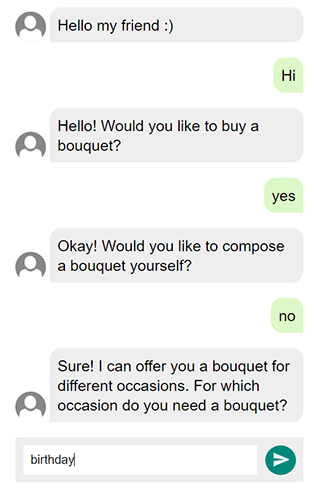
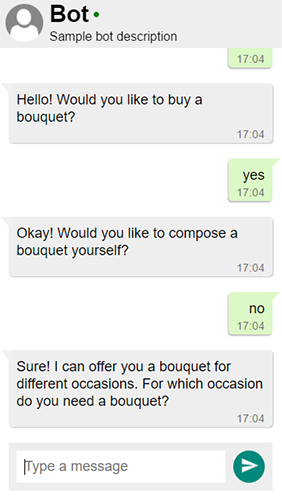
whatsapp styling

diff --git a/client/chat.scss b/client/chat.scss
@@ -5,9 +5,10 @@
   margin: 0 auto;
   max-width: 400px;
   padding: 12px;
+  margin-top: 3em;
 
   .messages {
-    @include flex(1, 1, 0);
+    @include flex(0, 1, 1);
   }
 
   .option_button {
@@ -39,14 +40,21 @@
     margin-bottom: 20px;
 
     .text {
-      @include flex(1, 1, 1);
+      @include flex(0, 1, 1);
       position: relative;
       background-color: rgb(238, 238, 238);
+
+      border-radius: 5px;
       .message_image {
         display: block;
         border-radius: 15px 15px 0 0;
         max-width: 610px;
         width: 100%;
+      }
+      .time {
+        float: right;
+        font-size: 0.8em;
+        color: $darkgrey;
       }
       &:before {
         content: '';
@@ -61,6 +69,7 @@
         @extend %align-self-flex-start;
         width: 45px;
         height: 40px;
+        margin-right: 5px;
         .img_bot {
           display: block;
           width: 40px;
@@ -83,6 +92,7 @@
       .text {
         @extend %align-self-flex-start;
         background-color: rgb(238, 238, 238);
+        box-shadow: 1px 1px 1px 0px rgba(50, 50, 50, 0.3);
         text-align: left;
 
         &:before {
@@ -90,7 +100,7 @@
           border-color: transparent #f5f1ee transparent transparent;
           position: absolute;
           top: 0;
-          left: -12px;
+          left: -10px;
         }
       }
     }
@@ -102,12 +112,13 @@
         @extend %justify-content-flex-end;
         float: right;
         background-color: #dcf8c6;
+        box-shadow: -1px 2px 1px 0px  rgba(50, 50, 50, 0.3);
         &:before {
           border-width: 15px 15px 0 0;
           border-color: #dcf8c6 transparent transparent transparent;
           position: absolute;
           top: 0;
-          right: -12px;
+          right: -10px;
         }
       }
     }
@@ -147,7 +158,7 @@
       padding: 10px;
       outline: none;
       border: none;
-      font-size: 16px;
+      font-size: 18px;
       background-color: white;
       &:focus, &:hover {
         outline: none;

diff --git a/imports/ui/body.html b/imports/ui/body.html
@@ -1,19 +1,26 @@
 <body>
-    <div class="spinner">
-      <div class="mul5">
-          <div class="mul5circle2"></div>
-          <div class="mul5circle3"></div>
-          <div class="mul5circle4"></div>
-          <div class="mul5circle5"></div>
-      </div>
+<div class="spinner">
+    <div class="mul5">
+        <div class="mul5circle2"></div>
+        <div class="mul5circle3"></div>
+        <div class="mul5circle4"></div>
+        <div class="mul5circle5"></div>
     </div>
-    <main>
-      <!-- Dynamic template is loaded here -->
-    </main>
-    <footer>
-    </footer>
+</div>
+<header>
+    <img src="/images/sample_avatar.png" alt="avatar">
+    <div>
+        <h1 class="person">Bot</h1>
+        <h2>Sample bot description</h2>
+    </div>
+</header>
+<main>
+    <!-- Dynamic template is loaded here -->
+</main>
+<footer>
+</footer>
 </body>
 
 <template name="mainlayout">
-  {{> Template.dynamic template=main}}
+    {{> Template.dynamic template=main}}
 </template>

diff --git a/client/header.scss b/client/header.scss
@@ -1,10 +1,12 @@
 @import 'variables.scss';
+@import 'sass-flexbox.scss';
 
 header {
-  background: #66d3f0;
+  background: #eeeeee;
   border: 2px;
   position: fixed;
   display: flex;
+  top: 0;
   z-index: 101;
   width: 100%;
   height: 4rem;
@@ -15,13 +17,6 @@ header {
     margin: 0 0.5rem;
     border-radius: 50%;
     align-self: center;
-
-    &.phone {
-      border-radius: 0;
-      position: absolute;
-      right: 1rem;
-      margin-top: 0.5rem;
-    }
   }
 
   h1 {

diff --git a/client/sass-flexbox.scss b/client/sass-flexbox.scss
@@ -136,6 +136,16 @@
     order: $order;
 }
 
+/*
+    Flex grow
+ */
+@mixin flex-grow($grow: 0) {
+    -webkit-flex-grow: $grow;
+    -webkit-box-flex: $grow;
+    -moz-flex-grow: $grow;
+    -ms-flex-positive: $grow;
+    flex-grow: $grow;
+}
 
 /*
     Flex shrink
@@ -162,6 +172,7 @@
     Flex
  */
 @mixin flex($grow: 0, $shrink: 1, $basis: auto) {
+    @include flex-grow($grow);
     @include flex-shrink($shrink);
     @include flex-basis($basis);
 }

diff --git a/imports/ui/answer_options.html b/imports/ui/answer_options.html
@@ -1,7 +1,7 @@
 <template name="text">
   <form class="new-message-form">
     <div class="new-message">
-      <input type="text" name="text" autocomplete="off" placeholder="Nachricht schreiben" id="messageBox"/>
+      <input type="text" name="text" autocomplete="off" placeholder="Type a message" id="messageBox"/>
       <div class="send"></div>
     </div>
   </form>

diff --git a/imports/ui/message.html b/imports/ui/message.html
@@ -1,10 +1,5 @@
 <template name="message">
     <div class="message-wrapper {{user}}">
-        {{#if userIsBot user}}
-        <div class="avatar">
-            <img src="/images/sample_avatar.png" alt="" class="img_bot "/>
-        </div>
-        {{/if}}
         <div class="text">
             {{#if image}}
             <img src="{{image}}" class="message_image"/>

diff --git a/imports/ui/chat.js b/imports/ui/chat.js
@@ -18,6 +18,7 @@ const SHOW_BUTTONS_TEST_STRING = "show buttons";
 
 Template.chat.onCreated(function () {
     $('.spinner').hide();
+    $('header').show();
     Meteor.subscribe('messages', function () {
         var messages = Messages.find().observe({
             added: function (res) {

diff --git a/client/main.scss b/client/main.scss
@@ -8,12 +8,12 @@ html {
 
 html, body, input, p, h1, h2, hr {
   margin: 0;
-  padding: 0
+  padding: 0;
 }
 
 /* CSS declarations go here */
 body {
-  font-family: sans-serif;
+  font-family: Helvetica, Arial sans-serif;
   font-size: 20px;
   line-height: 26px;
 }

diff --git a/imports/ui/newchat.js b/imports/ui/newchat.js
@@ -5,6 +5,7 @@ import './newchat.html';
 
 Template.newchat.onCreated(function () {
     $('.spinner').hide();
+    $('header').hide();
 });
 
 Template.newchat.helpers({});

diff --git a/imports/ui/tracking.js b/imports/ui/tracking.js
@@ -7,6 +7,7 @@ import './tracking.html';
 
 Template.tracking.onCreated(function () {
     $('.spinner').hide();
+    $('header').hide();
 });
 
 Template.tracking.events({

diff --git a/client/tracking.scss b/client/tracking.scss
@@ -25,8 +25,10 @@
   }
   .chat-data, .chat-messages {
     @include flex(1, 1, 0);
+    padding: 10px;
   }
   .chat-data {
     overflow-x: scroll;
   }
+
 }
